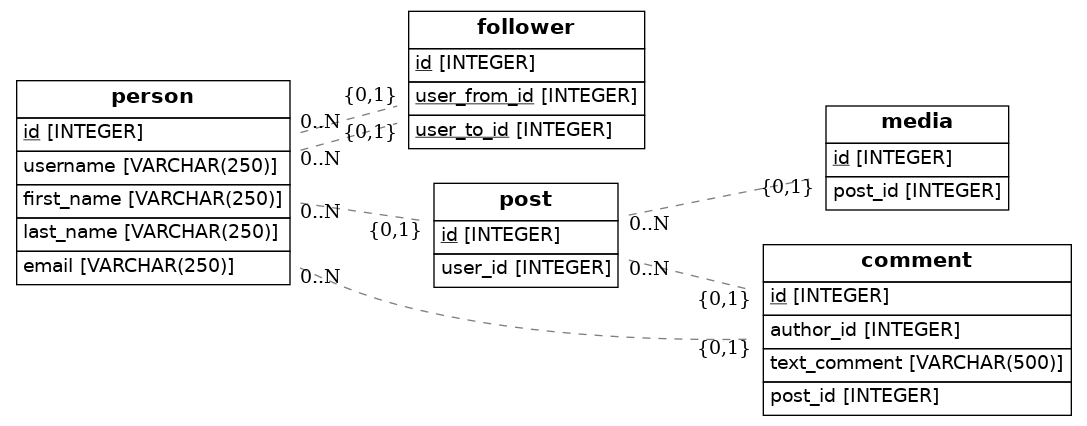
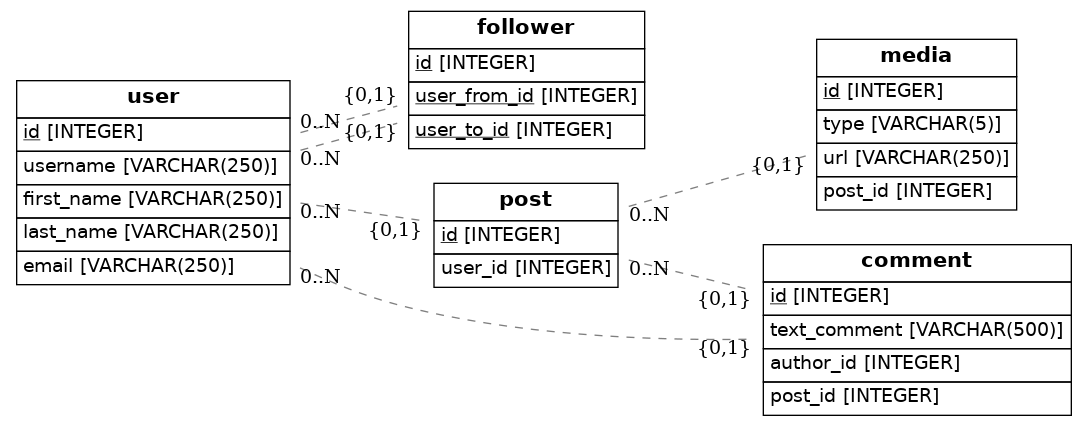
add required colums in media

diff --git a/src/models.py b/src/models.py
@@ -1,6 +1,7 @@
 import os
 import sys
-from sqlalchemy import Column, ForeignKey, Integer, String
+import enum
+from sqlalchemy import Column, ForeignKey, Integer, String, Enum
 from sqlalchemy.ext.declarative import declarative_base
 from sqlalchemy.orm import relationship
 from sqlalchemy import create_engine
@@ -8,8 +9,8 @@ from eralchemy import render_er
 
 Base = declarative_base()
 
-class Person(Base):
-    __tablename__ = 'person'
+class User(Base):
+    __tablename__ = 'user'
     id = Column(Integer, primary_key=True)
     username = Column(String(250), nullable=False)
     first_name = Column(String(250), nullable=False)
@@ -19,25 +20,32 @@ class Person(Base):
 class followers(Base):
     __tablename__ = 'follower'
     id = Column(Integer, primary_key=True)
-    user_from_id = Column(Integer, ForeignKey('person.id'), primary_key=True)
-    user_to_id = Column(Integer, ForeignKey('person.id'), primary_key=True)
-    user = relationship(Person)
+    user_from_id = Column(Integer, ForeignKey('user.id'), primary_key=True)
+    user_to_id = Column(Integer, ForeignKey('user.id'), primary_key=True)
+    user = relationship(User)
 
 class post(Base):
     __tablename__ = 'post'
     id = Column(Integer, primary_key=True)
-    user_id = Column(Integer, ForeignKey('person.id'))
+    user_id = Column(Integer, ForeignKey('user.id'))
 
 class comment(Base):
     __tablename__ = 'comment'
     id = Column(Integer, primary_key=True)
-    author_id = Column(Integer, ForeignKey('person.id'))
     text_comment = Column(String(500))
+    author_id = Column(Integer, ForeignKey('user.id'))
     post_id = Column(Integer, ForeignKey('post.id'))
+
+class MyEnum(enum.Enum):
+    img = 'jpg'
+    music = 'mp3'
+    video = 'mp4'
 
 class media(Base):
     __tablename__= 'media'
     id = Column(Integer, primary_key=True)
+    type = Column(Enum(MyEnum))
+    url = Column(String(250))
     post_id = Column(Integer, ForeignKey('post.id'))
 
     def to_dict(self):
